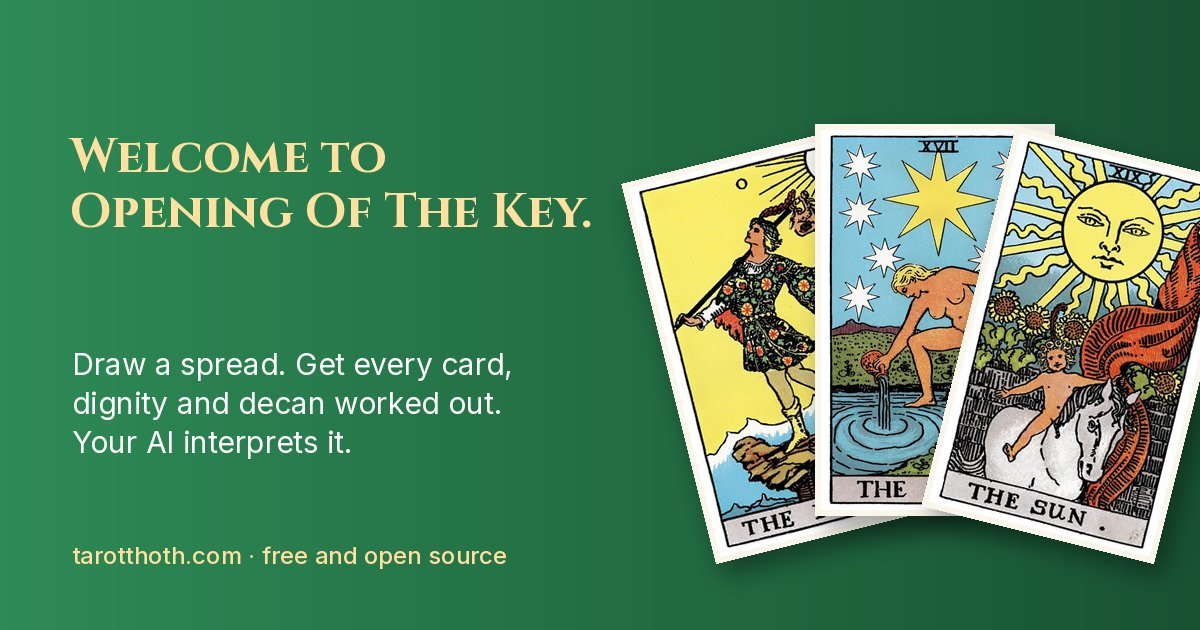
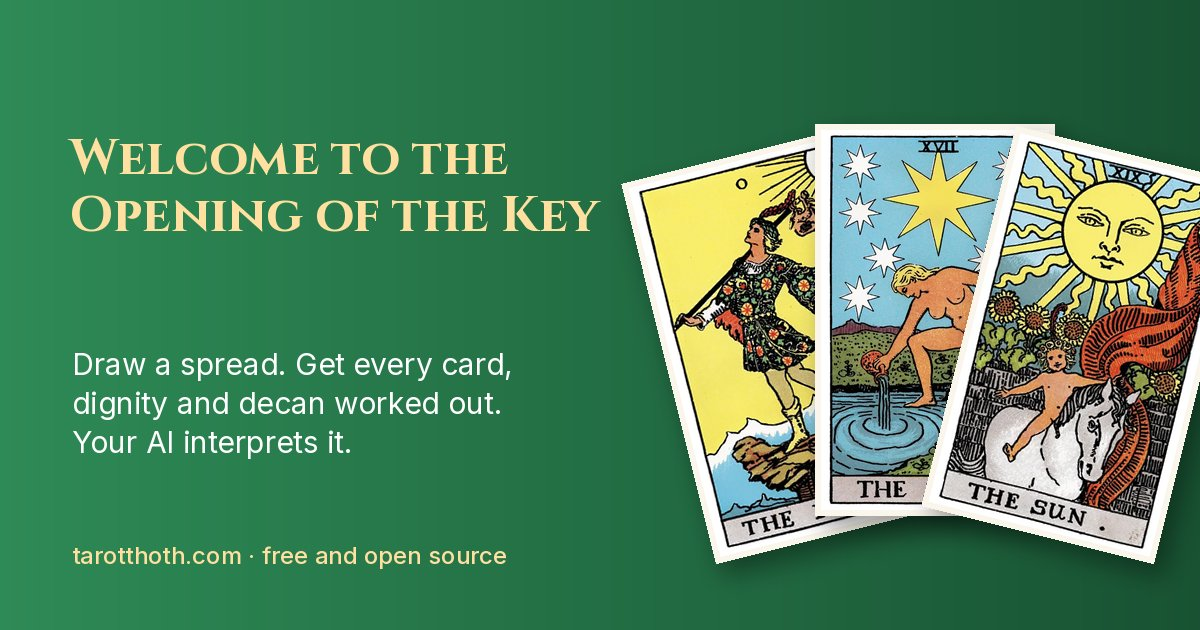
Use one site name and one set of spread, framework and dignity names
The site is called OOTK Thoth Engine in the header, tab titles and link
previews, and the home headline reads Welcome to the Opening of the Key.
Visitors see each spread's short name everywhere (the technical name stays
in the prompt and as the Library subtitle), the framework names match
between the guided step, the dropdown and How it works, and the report
calls same-element pairs same element as How it works does. Smaller fixes:
Vau spelt one way, Rider-Waite-Smith spelt out on Examples, no repeated
Attribution on card pages, AI rather than LLM, and the footer lists every
page in the top menu.

Claude-Session: https://claude.ai/code/session_0113nfxDhfsezAEuMSzrhd7p

Changed region(s): [[0.0617, 0.2111, 0.4933, 0.3921]]

diff --git a/templates/method.html b/templates/method.html
@@ -1,6 +1,6 @@
 {% extends "_guide_base.html" %}
 {% set page_title = "How it works" %}
-{% set page_description = "How LLM Tarot Reading draws the cards and works out their correspondences, what it can't do, what it stores and what it is for." %}
+{% set page_description = "How OOTK draws the cards and works out their correspondences, what it can't do, what it stores and what it is for." %}
 {% set tagline = "How a reading is made, what it can't do, and what it is for." %}
 {% set active = "/method" %}
 {% block head %}
@@ -37,17 +37,17 @@
                         <tr><td>Same element</td><td class="n">+2</td></tr>
                         <tr><td>Friendly (for example Fire and Air)</td><td class="n">+1</td></tr>
                         <tr><td>Contrary (Fire and Water, Air and Earth)</td><td class="n">&minus;2</td></tr>
-                        <tr><td>Spirit on either side</td><td class="n">0</td></tr>
+                        <tr><td>Spirit on either side (neutral)</td><td class="n">0</td></tr>
                     </table>
                     Cards are also related by where they sit in the layout; on the wheels of houses, signs and decans that means astrological aspects, counted within set orbs. These aspects belong to the layout, so they are the same in every reading of a spread; only the cards at their two ends change. The report adds the elemental balance, where the cards fall on the Cube of Space, and their Platonic solids.</li>
                 <li id="lens"><strong>Choose a lens.</strong> The framework is the overall story your AI is asked to read the cards as. It sets one line of the prompt and changes nothing else: the cards, scores and calculations stay the same. There are four:
                     <ul>
-                        <li><strong>1. Divine Light Flow:</strong> energy coming down from Kether, the divine, into Malkuth, the material world.</li>
-                        <li><strong>2. Soul Formation:</strong> the soul taking shape before birth.</li>
-                        <li><strong>3. Incarnational Life Path:</strong> growth through everyday life. This is the default.</li>
-                        <li><strong>4. Post-Mortem Return:</strong> the climb back up the Tree, as in the Book of the Dead.</li>
+                        <li><strong>Something coming into being (Divine Light Flow):</strong> energy coming down from Kether, the divine, into Malkuth, the material world.</li>
+                        <li><strong>The soul before birth (Soul Formation):</strong> the soul taking shape before birth.</li>
+                        <li><strong>Everyday growth (Life Path):</strong> growth through everyday life. This is the default.</li>
+                        <li><strong>Letting go and returning (Post-Mortem Return):</strong> the climb back up the Tree, as in the Book of the Dead.</li>
                     </ul>
-                    On Auto, each card that has a place of its own on the Tree of Life is given a height: a pip its Sephira (Ace in Kether, 10 in Malkuth), a Trump the midpoint of the two Sephiroth its path joins. Court cards have no place of their own and are left out. With at least six such cards, Auto checks whether they run steadily down towards Malkuth in position order (lens 1) or up towards Kether (lens 4); the bar is set so a random shuffle passes it only about one time in ten. Otherwise, and in every spread of fewer than six cards, it uses Life Path. Auto never picks Soul Formation, which has no pattern in the cards to test, so choose it yourself if you want it. The report says which lens was used, and why.</li>
+                    On Auto, each card that has a place of its own on the Tree of Life is given a height: a pip its Sephira (Ace in Kether, 10 in Malkuth), a Trump the midpoint of the two Sephiroth its path joins. Court cards have no place of their own and are left out. With at least six such cards, Auto checks whether they run steadily down towards Malkuth in position order (Divine Light Flow) or up towards Kether (Post-Mortem Return); the bar is set so a random shuffle passes it only about one time in ten. Otherwise, and in every spread of fewer than six cards, it uses Life Path. Auto never picks Soul Formation, which has no pattern in the cards to test, so choose it yourself if you want it. The report says which lens was used, and why.</li>
                 <li><strong>Write the prompt.</strong> Section 1 lists the cards, and sections 2 to 6 hold every calculation. Section 7 asks your AI to relate them to your question, using only the data given, to name the outcome they lean toward as a likely possibility, not a certainty, leaving the decision to you, and to end with a recap in plain words. It also explains what the scores mean.</li>
             </ol>
             <p class="note">The code, tables and tests are all <a href="{{ repo_url }}" target="_blank" rel="noopener">open source</a>, so every step above can be checked.</p>

diff --git a/templates/_settings_fields.html b/templates/_settings_fields.html
@@ -45,7 +45,7 @@
                 {% for level, name, keys, learn in spread_stages %}
                 <optgroup label="{{ level }} · {{ name }}">
                     {% for key in keys %}{% set n = positions[key] | length %}
-                    <option value="{{ key }}"{{ ' selected' if key == default_spread }}>{{ spreads[key].name }} · {{ n }} card{{ 's' if n != 1 }}</option>
+                    <option value="{{ key }}"{{ ' selected' if key == default_spread }}>{{ spread_label(key) }} · {{ n }} card{{ 's' if n != 1 }}</option>
                     {% endfor %}
                 </optgroup>
                 {% endfor %}
@@ -177,21 +177,21 @@
                 <fieldset class="sig-q wiz-only" data-g="framework">
                     <legend>What kind of story should your AI tell?</legend>
                     <label><input type="radio" name="g_framework" value="auto" form="noPost"><span>Let the cards decide <small>Auto, recommended: Everyday growth, unless the cards clearly run down or up the Tree of Life</small></span></label>
-                    <label><input type="radio" name="g_framework" value="life_path" form="noPost"><span>Everyday growth <small>3. Incarnational Life Path: most practical questions</small></span></label>
-                    <label><input type="radio" name="g_framework" value="light_descent" form="noPost"><span>Something coming into being <small>1. Divine Light Flow: a new start, idea or project taking shape</small></span></label>
-                    <label><input type="radio" name="g_framework" value="soul_formation" form="noPost"><span>The soul before birth <small>2. Soul Formation: purpose, and what you came here to do. Auto never picks it</small></span></label>
-                    <label><input type="radio" name="g_framework" value="post_mortem" form="noPost"><span>Letting go and returning <small>4. Post-Mortem Return: endings, grief, looking back over a life</small></span></label>
+                    <label><input type="radio" name="g_framework" value="life_path" form="noPost"><span>Everyday growth <small>Life Path: most practical questions</small></span></label>
+                    <label><input type="radio" name="g_framework" value="light_descent" form="noPost"><span>Something coming into being <small>Divine Light Flow: a new start, idea or project taking shape</small></span></label>
+                    <label><input type="radio" name="g_framework" value="soul_formation" form="noPost"><span>The soul before birth <small>Soul Formation: purpose, and what you came here to do. Auto never picks it</small></span></label>
+                    <label><input type="radio" name="g_framework" value="post_mortem" form="noPost"><span>Letting go and returning <small>Post-Mortem Return: endings, grief, looking back over a life</small></span></label>
                     <p class="hint">It only changes the angle your AI reads from, not the cards or the scores. <a href="/method#lens">More</a></p>
                 </fieldset>
                 {% endif %}
                 <div class="wiz-hide">
                 <label for="frameworkSelect">Framework</label>
                 <select name="framework" id="frameworkSelect">
-                    <option value="auto">Auto-detect from the draw</option>
-                    <option value="light_descent">1. Divine Light Flow (Kether -> Malkuth)</option>
-                    <option value="soul_formation">2. Pre-Incarnation Soul Formation</option>
-                    <option value="life_path">3. Incarnational Life Path & Evolution</option>
-                    <option value="post_mortem">4. Post-Mortem Return (Book of the Dead)</option>
+                    <option value="auto">Let the cards decide (Auto)</option>
+                    <option value="light_descent">Something coming into being (Divine Light Flow)</option>
+                    <option value="soul_formation">The soul before birth (Soul Formation)</option>
+                    <option value="life_path">Everyday growth (Life Path)</option>
+                    <option value="post_mortem">Letting go and returning (Post-Mortem Return)</option>
                 </select>
                 <p class="hint">The angle your AI is asked to read from. It does not change the cards or the scores. <a href="/method#lens">More</a></p>
                 </div>

diff --git a/templates/_head_meta.html b/templates/_head_meta.html
@@ -9,16 +9,16 @@
     <link rel="canonical" href="{{ site_url(request) }}{{ request.url.path }}">
 {%- endif %}
     <meta property="og:type" content="website">
-    <meta property="og:site_name" content="LLM Tarot Reading">
-    <meta property="og:title" content="{{ page_title | default('Welcome to Opening Of The Key.') }}">
+    <meta property="og:site_name" content="OOTK Thoth Engine">
+    <meta property="og:title" content="{{ page_title | default('OOTK Thoth Engine') }}">
     <meta property="og:description" content="{{ page_description | default(site_description) }}">
     <meta property="og:url" content="{{ site_url(request) }}{{ request.url.path }}">
     <meta property="og:image" content="{{ site_url(request) }}/static/site/og-image.jpg">
     <meta property="og:image:width" content="1200">
     <meta property="og:image:height" content="630">
-    <meta property="og:image:alt" content="The headline Welcome to Opening Of The Key. beside The Fool, The Star and The Sun from the 1909 Rider-Waite-Smith deck">
+    <meta property="og:image:alt" content="The headline Welcome to the Opening of the Key beside The Fool, The Star and The Sun from the 1909 Rider-Waite-Smith deck">
     <meta name="twitter:card" content="summary_large_image">
-    <meta name="twitter:title" content="{{ page_title | default('Welcome to Opening Of The Key.') }}">
+    <meta name="twitter:title" content="{{ page_title | default('OOTK Thoth Engine') }}">
     <meta name="twitter:description" content="{{ page_description | default(site_description) }}">
     <meta name="twitter:image" content="{{ site_url(request) }}/static/site/og-image.jpg">
 {#- Shared <head> tags: icons, the search description and link previews (Open Graph and Twitter).

diff --git a/templates/index.html b/templates/index.html
@@ -4,7 +4,7 @@
     <meta charset="UTF-8">
     <meta name="viewport" content="width=device-width, initial-scale=1">
 {% include "_head_meta.html" %}
-    <title>LLM Tarot Reading · OOTK Thoth Engine</title>
+    <title>OOTK Thoth Engine · Thoth tarot readings for your AI</title>
     {# Tells search engines this is a free web app, for a richer search result. -#}
     <script type="application/ld+json">
     {{ {"@context": "https://schema.org", "@type": "WebApplication", "name": "OOTK Thoth Engine",
@@ -101,7 +101,7 @@
     <!-- Banner: what it is, for whom and how on the left; the settings for your own reading on the right. -->
     <section class="band" aria-labelledby="pageTitle">
         <div class="band-text">
-            <h1 id="pageTitle">Welcome to Opening Of The Key.</h1>
+            <h1 id="pageTitle">Welcome to the Opening of the Key</h1>
             <p class="tagline">Draw a Thoth spread. OOTK looks up every card in the Book&nbsp;T and Liber&nbsp;777 tables and hands your AI a ready-made prompt, so the interpreting is left to your AI.</p>
             <ol class="steps" aria-label="How it works">
                 <li><span>1</span> Ask your question and draw</li>

diff --git a/templates/pick.html b/templates/pick.html
@@ -4,7 +4,7 @@
     <meta charset="UTF-8">
     <meta name="viewport" content="width=device-width, initial-scale=1">
 {% include "_head_meta.html" %}
-    <title>Pick by hand · LLM Tarot Reading</title>
+    <title>Pick by hand · OOTK Thoth Engine</title>
     <script>
         // Saved choice first, otherwise the light (beige) theme.
         (function () {
@@ -62,7 +62,7 @@
                     {% if img %}<img src="{{ img }}" srcset="{{ card_srcset(card.title) }}" alt="{{ card.title }}" width="200" height="333" loading="lazy" decoding="async">
                     {% else %}<div class="noimg">{{ card.title }}</div>{% endif %}
                     <div class="card-title">{{ card.title }}</div>
-                    {% set art = art_note(card.title) %}{% if art %}<div class="card-art" title="{{ art }}">{{ art | replace("Pictured: Rider-Waite-Smith ", "Pictured: RWS ") }}</div>{% endif %}
+                    {% set art = art_note(card.title) %}{% if art %}<div class="card-art" title="{{ art }}">{{ art | replace("Pictured: Rider-Waite-Smith ", "Pictured: Waite’s ") }}</div>{% endif %}
                 </div>
                 {% endfor %}
             </div>

diff --git a/templates/report.html b/templates/report.html
@@ -4,7 +4,7 @@
     <meta charset="UTF-8">
     <meta name="viewport" content="width=device-width, initial-scale=1">
 {% with noindex=true %}{% include "_head_meta.html" %}{% endwith %}
-    <title>Report - {{ spread_name }}</title>
+    <title>{{ spread_name }} reading · OOTK Thoth Engine</title>
     <script>
         // Saved choice first, otherwise the light (beige) theme.
         (function () {
@@ -364,7 +364,7 @@
             <div class="tile">
                 <div class="label">Elemental dignities</div>
                 <div class="big">{{ signed(S.dignity.net) }}</div>
-                <div class="muted" style="font-size:0.85em">{{ S.dignity.strong }} strong · {{ S.dignity.friendly }} friendly · {{ S.dignity.neutral }} neutral · {{ S.dignity.contrary }} contrary, over {{ S.dignity.pairs }} pairs</div>
+                <div class="muted" style="font-size:0.85em">{{ S.dignity.strong }} same element · {{ S.dignity.friendly }} friendly · {{ S.dignity.neutral }} neutral · {{ S.dignity.contrary }} contrary, over {{ S.dignity.pairs }} pairs</div>
             </div>
             {% endif %}
             {% if S.aspects.total %}

diff --git a/templates/start.html b/templates/start.html
@@ -1,6 +1,6 @@
 {% extends "_guide_base.html" %}
 {% set page_title = "Start here" %}
-{% set page_description = "New to LLM Tarot Reading? Five short steps from your first card to a full Opening of the Key, and what each spread teaches." %}
+{% set page_description = "New to OOTK? Five short steps from your first card to a full Opening of the Key, and what each spread teaches." %}
 {% set tagline = "New here? Five steps from your first card to the Opening of the Key." %}
 {% set active = "/start" %}
 {% block head %}
@@ -108,7 +108,7 @@
                     <p>{{ learn | safe }}</p>
                     <ul>
                         {% for key in keys %}
-                        <li><a href="/?spread={{ key }}#readingForm">{{ spreads[key].name }}</a> <span class="muted">({{ sizes[key] }} card{{ 's' if sizes[key] != 1 }})</span></li>
+                        <li><a href="/?spread={{ key }}#readingForm">{{ spread_label(key) }}</a> <span class="muted">({{ sizes[key] }} card{{ 's' if sizes[key] != 1 }})</span></li>
                         {% endfor %}
                     </ul>
                 </div>

diff --git a/templates/day.html b/templates/day.html
@@ -4,9 +4,9 @@
     <meta charset="UTF-8">
     <meta name="viewport" content="width=device-width, initial-scale=1">
 {% set page_title = "Card of the day: " ~ name -%}
-{% set page_description %}The tarot card of the day for {{ day.strftime('%-d %B %Y') }} is {{ name }} ({{ card.attribution }}), with its Liber 777 correspondences and a ready-made prompt for your LLM.{% endset -%}
+{% set page_description %}The tarot card of the day for {{ day.strftime('%-d %B %Y') }} is {{ name }} ({{ card.attribution }}), with its Liber 777 correspondences and a ready-made prompt for your AI.{% endset -%}
 {% include "_head_meta.html" %}
-    <title>Card of the day, {{ day.strftime('%-d %B %Y') }}: {{ name }} · LLM Tarot Reading</title>
+    <title>Card of the day, {{ day.strftime('%-d %B %Y') }}: {{ name }} · OOTK Thoth Engine</title>
     <script>
         // Saved choice first, otherwise the light (beige) theme.
         (function () {

diff --git a/templates/library.html b/templates/library.html
@@ -35,7 +35,7 @@
             <p class="muted">All {{ spreads | length }} spreads and their positions. <a href="/start#stagesTitle">Start here</a> groups them into learning stages.</p>
             {% for key, spread in spreads.items() %}
             <details class="spread" id="spread-{{ key }}">
-                <summary><strong>{{ key }}.</strong> {{ spread.name }} <span class="muted">({{ positions[key] | length }} card{{ 's' if positions[key] | length != 1 }})</span></summary>
+                <summary><strong>{{ key }}.</strong> {{ spread_label(key) }} <span class="muted">{{ spread.name }} · {{ positions[key] | length }} card{{ 's' if positions[key] | length != 1 }}</span></summary>
                 <ol>{% for p in positions[key] %}<li>{{ p }}</li>{% endfor %}</ol>
                 <a href="/?spread={{ key }}#readingForm">Draw this spread</a>
             </details>

diff --git a/templates/card.html b/templates/card.html
@@ -30,7 +30,7 @@
                     <h2 id="factsTitle">Correspondences</h2>
                     <dl class="facts">
                         <dt>Arcana</dt><dd>{{ card.kind }}</dd>
-                        {% if card.attribution %}<dt>Attribution</dt><dd>{{ card.attribution }}</dd>{% endif %}
+                        {% if card.attribution and card.attribution != card.element %}<dt>Attribution</dt><dd>{{ card.attribution }}</dd>{% endif %}
                         {% if card.element %}<dt>Element</dt><dd>{{ card.element }}</dd>{% endif %}
                         {% if card.letter %}<dt>Hebrew letter</dt><dd>{{ card.letter }}</dd>{% endif %}
                         {% if card.colour_name %}<dt>King Scale colour</dt><dd>{% if card.colour %}<span class="swatch" style="background:{{ card.colour }}"></span>{% endif %}{{ card.colour_name }}</dd>{% endif %}

diff --git a/templates/examples.html b/templates/examples.html
@@ -22,7 +22,7 @@
             <ol class="ex-cards">
                 {% for c in ex.cards %}
                 {% set img = card_image_url(c.title, "thumb") %}
-                <li>{% if img %}<img src="{{ img }}" alt=""{% set art = art_note(c.title) %}{% if art %} title="{{ art }}"{% endif %} width="200" height="333" loading="lazy" decoding="async">{% endif %}{{ c.name }}{% if art %}<br><span class="art">{{ art | replace("Pictured: Rider-Waite-Smith ", "Pictured: RWS ") }}</span>{% endif %}</li>
+                <li>{% if img %}<img src="{{ img }}" alt=""{% set art = art_note(c.title) %}{% if art %} title="{{ art }}"{% endif %} width="200" height="333" loading="lazy" decoding="async">{% endif %}{{ c.name }}{% if art %}<br><span class="art">{{ art }}</span>{% endif %}</li>
                 {% endfor %}
             </ol>
             {% endif %}

diff --git a/templates/_site_bar.html b/templates/_site_bar.html
@@ -1,6 +1,6 @@
 {# The OOTK name along the top of every page, with the theme switch. The front page also shows the open source line between them. -#}
     <header class="site-bar">
-        <a class="brand" href="/">OOTK<small>Thoth engine</small></a>
+        <a class="brand" href="/">OOTK<small>Thoth Engine</small></a>
         {% if show_open_source %}<p class="trust">Free and <a href="{{ repo_url }}" target="_blank" rel="noopener">open source</a></p>{% endif %}
         <button type="button" class="btn-small" id="themeToggle" title="Switch between dark and light" aria-label="Switch between dark and light">◐<span class="wide-only"> Theme</span></button>
     </header>
